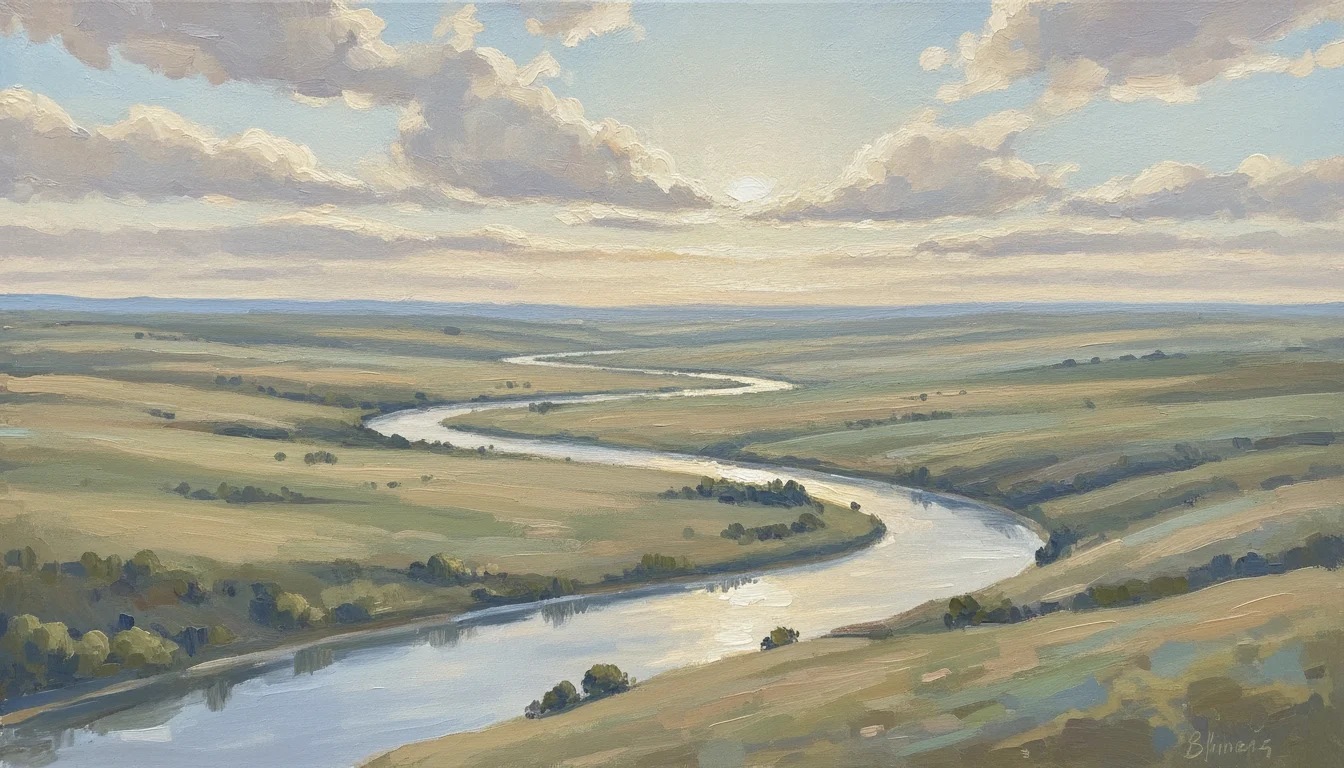
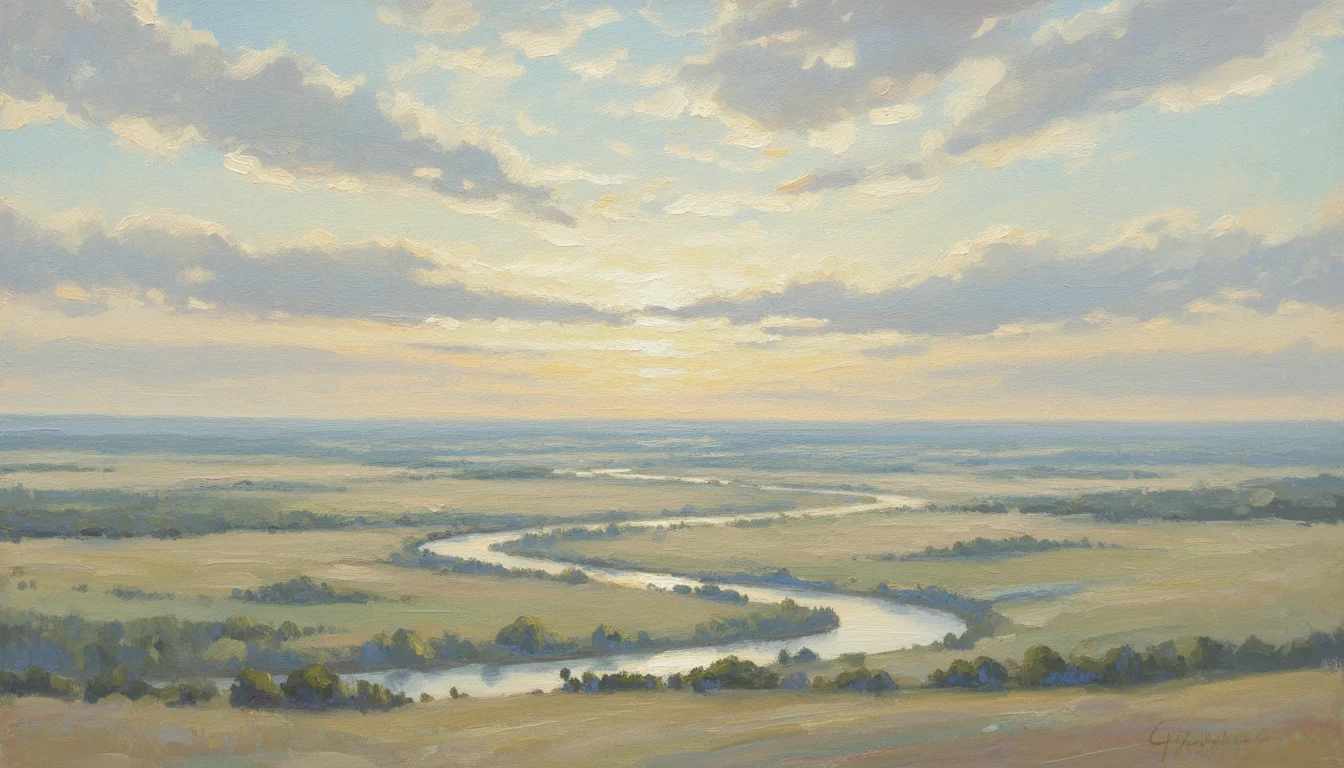
Pioneer cards go light: brighter valley and misty hills replace the dark plates

diff --git a/lithos/src/sections/Bento.tsx b/lithos/src/sections/Bento.tsx
@@ -7,7 +7,7 @@ import { shots } from "../lib/shots";
 import { Reveal, Section } from "../lib/ui";
 
 const PANELS = [shots.appPlan, shots.appIssue];
-const SCENES = [scenery.valley, scenery.duskridge];
+const SCENES = [scenery.valley, scenery.mist];
 
 function Card({ index }: { index: number }) {
   const card = pioneer.cards[index];

diff --git a/lithos/src/lib/scenery.ts b/lithos/src/lib/scenery.ts
@@ -19,5 +19,5 @@ export const scenery = {
   wetland: "/img/wetland.webp",
   dunes: "/img/dunes.webp",
   valley: "/img/valley.webp",
-  duskridge: "/img/duskridge.webp",
+  mist: "/img/mist.webp",
 };
